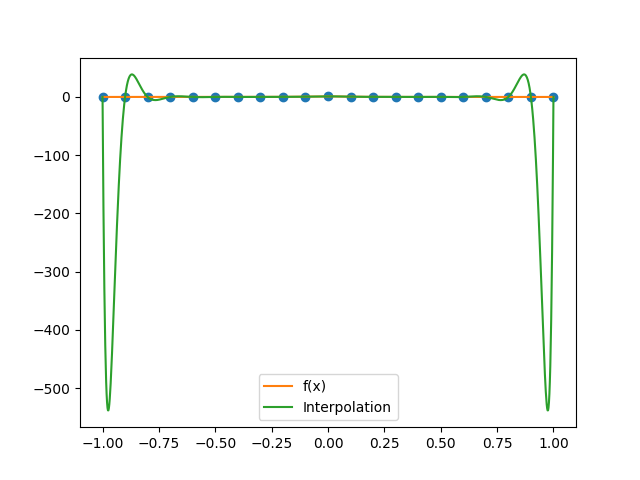
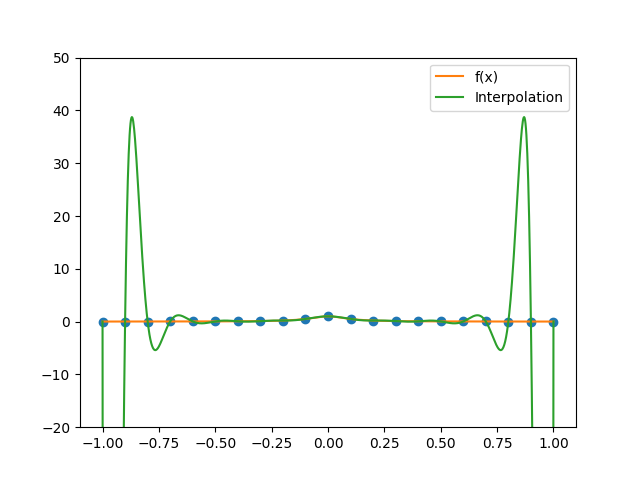
done

diff --git a/Homework/homework7/homework7.py b/Homework/homework7/homework7.py
@@ -38,10 +38,11 @@ def driver():
     coef3 = V3inv @ y3int
 
     x = np.linspace(a,b,1001)
-    p = evalP(x,xint,f)
+    p = evalP(x,xint,yint)
     yeval = eval_monomial(x,coef,N)
     y3eval = eval_monomial(x,coef3,N)
     plt.figure()
+    plt.ylim(-20,50)
     plt.plot(xint,yint,'o')
     plt.plot(x,f(x), label = "f(x)")
     plt.plot(x,yeval,label = "Interpolation")
@@ -56,6 +57,7 @@ def driver():
     plt.savefig("problem3.png")
 
     plt.figure()
+    plt.ylim(-20,45)
     plt.plot(xint,yint,'o')
     plt.plot(x,f(x), label = "f(x)")
     plt.plot(x,p,label = "Interpolation")
@@ -78,19 +80,23 @@ def Vandermonde(xint, N):
             V[j][i] = xint[j]**i
     return V     
 
-def evalP(x,xint,yint):
-    phi =1
+def evalP(x, xint, yint):
+    phi = np.ones_like(x)
     for i in range(xint.size):
-        phi *= (x-xint[i])
+        phi *= (x - xint[i])
 
-    sum =0
+    sum = np.zeros_like(x)
     for j in range(xint.size):
         w = 1
         for i in range(xint.size):
-            if(i!= j):
-                w *= 1/ (xint[j] - xint[i])
-        sum += (w* yint ) /(x-xint[j])
+            if i != j:
+                w *= 1 / (xint[j] - xint[i])
+        
+        numerator = np.where(x == xint[j], yint[j], w * yint[j])
+        denominator = np.where(x == xint[j], 1, x - xint[j])
+        sum += numerator / denominator
 
     return phi * sum
+
 
 driver()    
